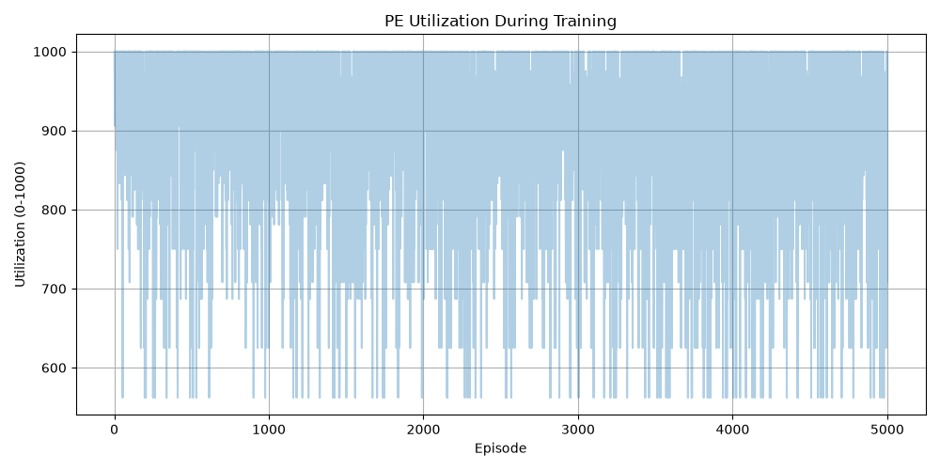
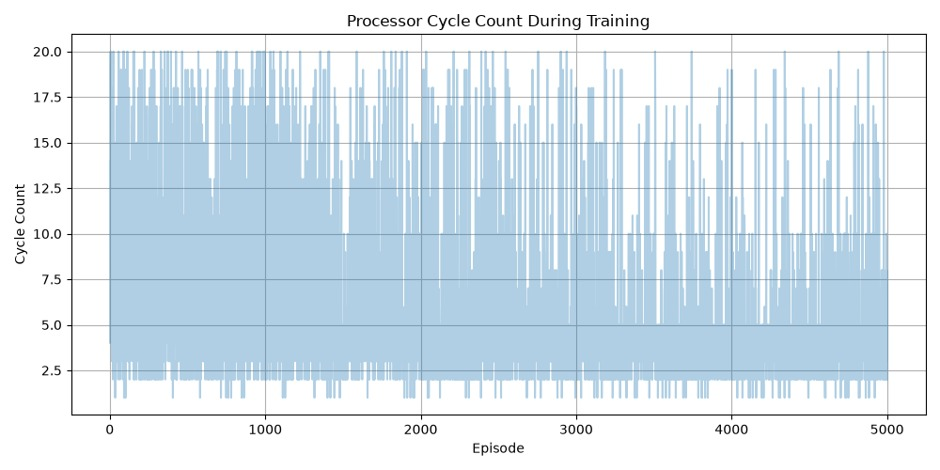
Enhance README with architecture and implementation results

diff --git a/README.md b/README.md
@@ -1,106 +1,112 @@
 # RL-Adaptive RISC-V AI SoC
 
-**Reinforcement Learning-Based Adaptive RISC-V AI System-on-Chip**
+<p align="center">
+  <img src="images/rtl_architecture.png" alt="RL-Adaptive RISC-V AI SoC Architecture" width="900"/>
+</p>
 
-A SystemVerilog-based FPGA implementation of an adaptive RISC-V AI SoC that combines an RV32I processor with a reinforcement learning controller to dynamically optimize accelerator behavior based on workload characteristics.
+<p align="center">
+  <img src="https://img.shields.io/badge/SystemVerilog-HDL-blue?style=for-the-badge"/>
+  <img src="https://img.shields.io/badge/Xilinx-Vivado-red?style=for-the-badge"/>
+  <img src="https://img.shields.io/badge/RISC--V-RV32I-green?style=for-the-badge"/>
+  <img src="https://img.shields.io/badge/Reinforcement-Learning-orange?style=for-the-badge"/>
+  <img src="https://img.shields.io/badge/FPGA-Implementation-purple?style=for-the-badge"/>
+</p>
 
-## Features
+---
 
-* RV32I RISC-V Core
+## Overview
+
+**RL-Adaptive RISC-V AI SoC** is a **SystemVerilog-based FPGA implementation** of an adaptive AI-enabled RISC-V System-on-Chip that combines an **RV32I processor**, a **Reinforcement Learning controller**, and an **adaptive accelerator** capable of dynamically optimizing hardware behavior based on workload characteristics.
+
+The project demonstrates how reinforcement learning techniques can be integrated directly into hardware architecture to improve accelerator utilization, execution efficiency, and adaptive decision-making.
+
+---
+
+## Key Features
+
+* RV32I RISC-V Processor Core
 * Reinforcement Learning Controller
 * Q-Learning Adaptation Logic
 * Adaptive AI Accelerator
 * Processing Element (PE) Array
 * Performance Monitoring Unit
-* SystemVerilog Testbenches
-* Xilinx Vivado FPGA Flow
-
-## Architecture
-
-The RTL design integrates an RV32I RISC-V processor with a reinforcement learning controller and an adaptive accelerator for dynamic workload optimization.
-
-![RTL Architecture](images/rtl_architecture.png)
+* Modular SystemVerilog Design
+* Comprehensive Verification Testbenches
+* FPGA Implementation using Xilinx Vivado
 
 ---
 
-## Simulation Results
+## System Architecture
 
-Behavioral simulation was performed in Xilinx Vivado to verify processor execution, accelerator activation, and RL adaptation.
+The SoC integrates a traditional RV32I processor with an RL-based adaptive hardware subsystem.
 
-![Simulation Waveform](images/simulation_waveform.png)
+<p align="center">
+  <img src="images/rtl_architecture.png" alt="RTL Architecture" width="900"/>
+</p>
 
----
+### Major Components
 
-## FPGA Implementation Results
-
-### Resource Utilization
-
-| Resource | Used |
-|----------|------|
-| Slice LUTs | 10,632 |
-| Slice Registers | 9,945 |
-| F7 Muxes | 1,184 |
-| F8 Muxes | 544 |
-| Bonded IOB | 6 |
-| BUFGCTRL | 1 |
-
-![Resource Utilization](images/resource_utilization.png)
-
-### Timing Summary
-
-The implementation met all specified timing constraints.
-
-- Worst Negative Slack (WNS): **0.221 ns**
-- Total Negative Slack (TNS): **0 ns**
-- Worst Hold Slack (WHS): **0.106 ns**
-- Failing Endpoints: **0**
-
-![Timing Summary](images/timing_summary.png)
+| Component            | Purpose                  |
+| -------------------- | ------------------------ |
+| RV32I Core           | Instruction execution    |
+| RL Controller        | Adaptive decision making |
+| Q-Learning Engine    | Policy updates           |
+| Adaptive Accelerator | AI workload acceleration |
+| PE Array             | Parallel computation     |
+| Performance Monitor  | Runtime statistics       |
 
 ---
-
-## Reinforcement Learning Performance
-
-### Training Reward
-
-The RL controller shows convergence with the moving average stabilizing around **14–15 reward** after extended training.
-
-![RL Reward](images/rl_training_reward.png)
-
-### Processor Cycle Count
-
-Processor execution adapts over time as the RL controller optimizes accelerator utilization.
-
-![Cycle Count](images/processor_cycle_count.png)
 
 ## Project Structure
 
 ```text
 RL-Adaptive-RISCV-AI-SoC/
+├── images/
+│   ├── rtl_architecture.png
+│   ├── simulation_waveform.png
+│   ├── resource_utilization.png
+│   ├── timing_summary.png
+│   ├── rl_training_reward.png
+│   ├── processor_cycle_count.png
+│   └── pe_utilization_training.png
+│
 ├── RL_Adaptive_RISCV_AI_SoC.srcs/
 │   ├── sources_1/
 │   ├── sim_1/
 │   └── constrs_1/
-├── RL_Adaptive_RISCV_AI_SoC.xpr
+│
+├── Python/
+├── Results/
 ├── README.md
 ├── LICENSE
 └── .gitignore
 ```
 
-## Key Modules
+---
 
-| Module                         | Function              |
-| ------------------------------ | --------------------- |
-| `ras_riscv_core.sv`            | RV32I processor       |
-| `ras_rl_controller.sv`         | RL decision logic     |
-| `ras_q_learning_controller.sv` | Q-learning controller |
-| `ras_adaptive_accelerator.sv`  | AI accelerator        |
-| `ras_pe_array_controller.sv`   | PE array management   |
-| `ras_performance_monitor.sv`   | Runtime monitoring    |
+## RTL Modules
+
+| Module                         | Function                      |
+| ------------------------------ | ----------------------------- |
+| `ras_riscv_core.sv`            | RV32I Processor               |
+| `ras_control_unit.sv`          | Instruction control           |
+| `ras_instruction_decoder.sv`   | Instruction decoding          |
+| `ras_register_file.sv`         | Register storage              |
+| `ras_alu.sv`                   | Arithmetic Logic Unit         |
+| `ras_program_counter.sv`       | Program sequencing            |
+| `ras_q_learning_controller.sv` | Q-learning controller         |
+| `ras_rl_controller.sv`         | Reinforcement learning logic  |
+| `ras_adaptive_accelerator.sv`  | Adaptive AI accelerator       |
+| `ras_pe_array_controller.sv`   | Processing element management |
+| `ras_performance_monitor.sv`   | Performance monitoring        |
+
+---
 
 ## Verification
 
-The project includes extensive SystemVerilog testbenches covering:
+The project includes extensive SystemVerilog verification for both individual modules and integrated system behavior.
+
+### Verified Modules
 
 * ALU
 * Register File
@@ -111,25 +117,165 @@ The project includes extensive SystemVerilog testbenches covering:
 * PE Array
 * RL Controller
 * Q-Learning Controller
-* Integrated System Tests
+* Adaptive Accelerator
+* Integrated Stress Testing
 
-## FPGA Implementation
+---
 
-* **Language:** SystemVerilog
-* **Tool:** Xilinx Vivado
-* **Target:** FPGA implementation and behavioral simulation
+## Simulation Results
 
-## Future Improvements
+Behavioral simulation was performed in **Xilinx Vivado** to verify processor execution, accelerator activation, and reinforcement learning adaptation.
 
-* Hardware deployment on Artix-7 FPGA
+<p align="center">
+  <img src="images/simulation_waveform.png" alt="Simulation Waveform" width="900"/>
+</p>
+
+**Simulation verifies:**
+
+* Processor execution flow
+* Accelerator activation
+* RL-based adaptation
+* Memory interaction
+* Control signal correctness
+
+---
+
+# FPGA Implementation Results
+
+The complete design was synthesized and implemented in **Xilinx Vivado**.
+
+## Resource Utilization
+
+| Resource        | Utilization |
+| --------------- | ----------: |
+| Slice LUTs      |      10,632 |
+| Slice Registers |       9,945 |
+| F7 Muxes        |       1,184 |
+| F8 Muxes        |         544 |
+| Bonded IOB      |           6 |
+| BUFGCTRL        |           1 |
+
+<p align="center">
+  <img src="images/resource_utilization.png" alt="Resource Utilization" width="900"/>
+</p>
+
+The implementation utilizes approximately **17%** of available Slice LUT resources while maintaining an efficient register and routing footprint.
+
+---
+
+## Timing Performance
+
+All specified timing constraints were successfully met.
+
+| Metric                     | Result       |
+| -------------------------- | ------------ |
+| Worst Negative Slack (WNS) | **0.221 ns** |
+| Total Negative Slack (TNS) | **0 ns**     |
+| Worst Hold Slack (WHS)     | **0.106 ns** |
+| Hold Violations            | **0**        |
+| Failing Endpoints          | **0**        |
+
+<p align="center">
+  <img src="images/timing_summary.png" alt="Timing Summary" width="900"/>
+</p>
+
+This indicates successful FPGA implementation without timing violations.
+
+---
+
+# Reinforcement Learning Performance
+
+The reinforcement learning subsystem was evaluated using long-duration training runs to observe convergence behavior and hardware adaptation.
+
+## Training Reward
+
+The moving average reward steadily converges toward approximately **14–15**, demonstrating stable learning behavior.
+
+<p align="center">
+  <img src="images/rl_training_reward.png" alt="Training Reward" width="900"/>
+</p>
+
+**Observations**
+
+* Stable convergence
+* Reduced reward variance
+* Improved policy consistency
+
+---
+
+## Processor Cycle Count
+
+The processor dynamically adapts execution behavior throughout training.
+
+<p align="center">
+  <img src="images/processor_cycle_count.png" alt="Processor Cycle Count" width="900"/>
+</p>
+
+The decreasing variability indicates increasingly efficient workload execution as the RL controller learns improved scheduling strategies.
+
+---
+
+## Processing Element Utilization
+
+The RL controller dynamically adjusts Processing Element (PE) utilization based on workload demands.
+
+<p align="center">
+  <img src="images/pe_utilization_training.png" alt="PE Utilization" width="900"/>
+</p>
+
+### Key Insights
+
+* Utilization ranges approximately between **560–1000 active units**
+* High sustained accelerator engagement
+* Dynamic hardware resource allocation
+* Efficient adaptive scheduling during training
+
+This demonstrates that the RL controller actively balances computational resources instead of operating with fixed hardware allocation.
+
+---
+
+# Technology Stack
+
+| Category        | Technology                |
+| --------------- | ------------------------- |
+| HDL             | SystemVerilog             |
+| Architecture    | RV32I RISC-V              |
+| FPGA Tool       | Xilinx Vivado             |
+| Verification    | SystemVerilog Testbenches |
+| AI Technique    | Q-Learning                |
+| Hardware Target | FPGA                      |
+
+---
+
+# Future Improvements
+
+* Artix-7 hardware deployment
+* Multi-core adaptive architecture
 * Advanced RL policies
-* Multi-core scalability
-* Power-aware adaptive scheduling
+* Dynamic voltage and frequency scaling
+* Power-aware scheduling
+* Larger Processing Element arrays
 
-## Author
+---
+
+# Author
 
 **Akshaj Gandi**
 
-* Electronics and Communication Engineering
-* SRM Institute of Science and Technology
-* GitHub: `akshajsaigandi-ux`
+Electronics and Communication Engineering
+
+SRM Institute of Science and Technology, Tiruchirappalli
+
+GitHub: **akshajsaigandi-ux**
+
+---
+
+## Repository Highlights
+
+* Modular SystemVerilog implementation
+* Complete RTL architecture
+* FPGA synthesis and implementation
+* Verified timing closure
+* Reinforcement Learning hardware adaptation
+* Processing Element utilization analysis
+* Comprehensive simulation and verification
